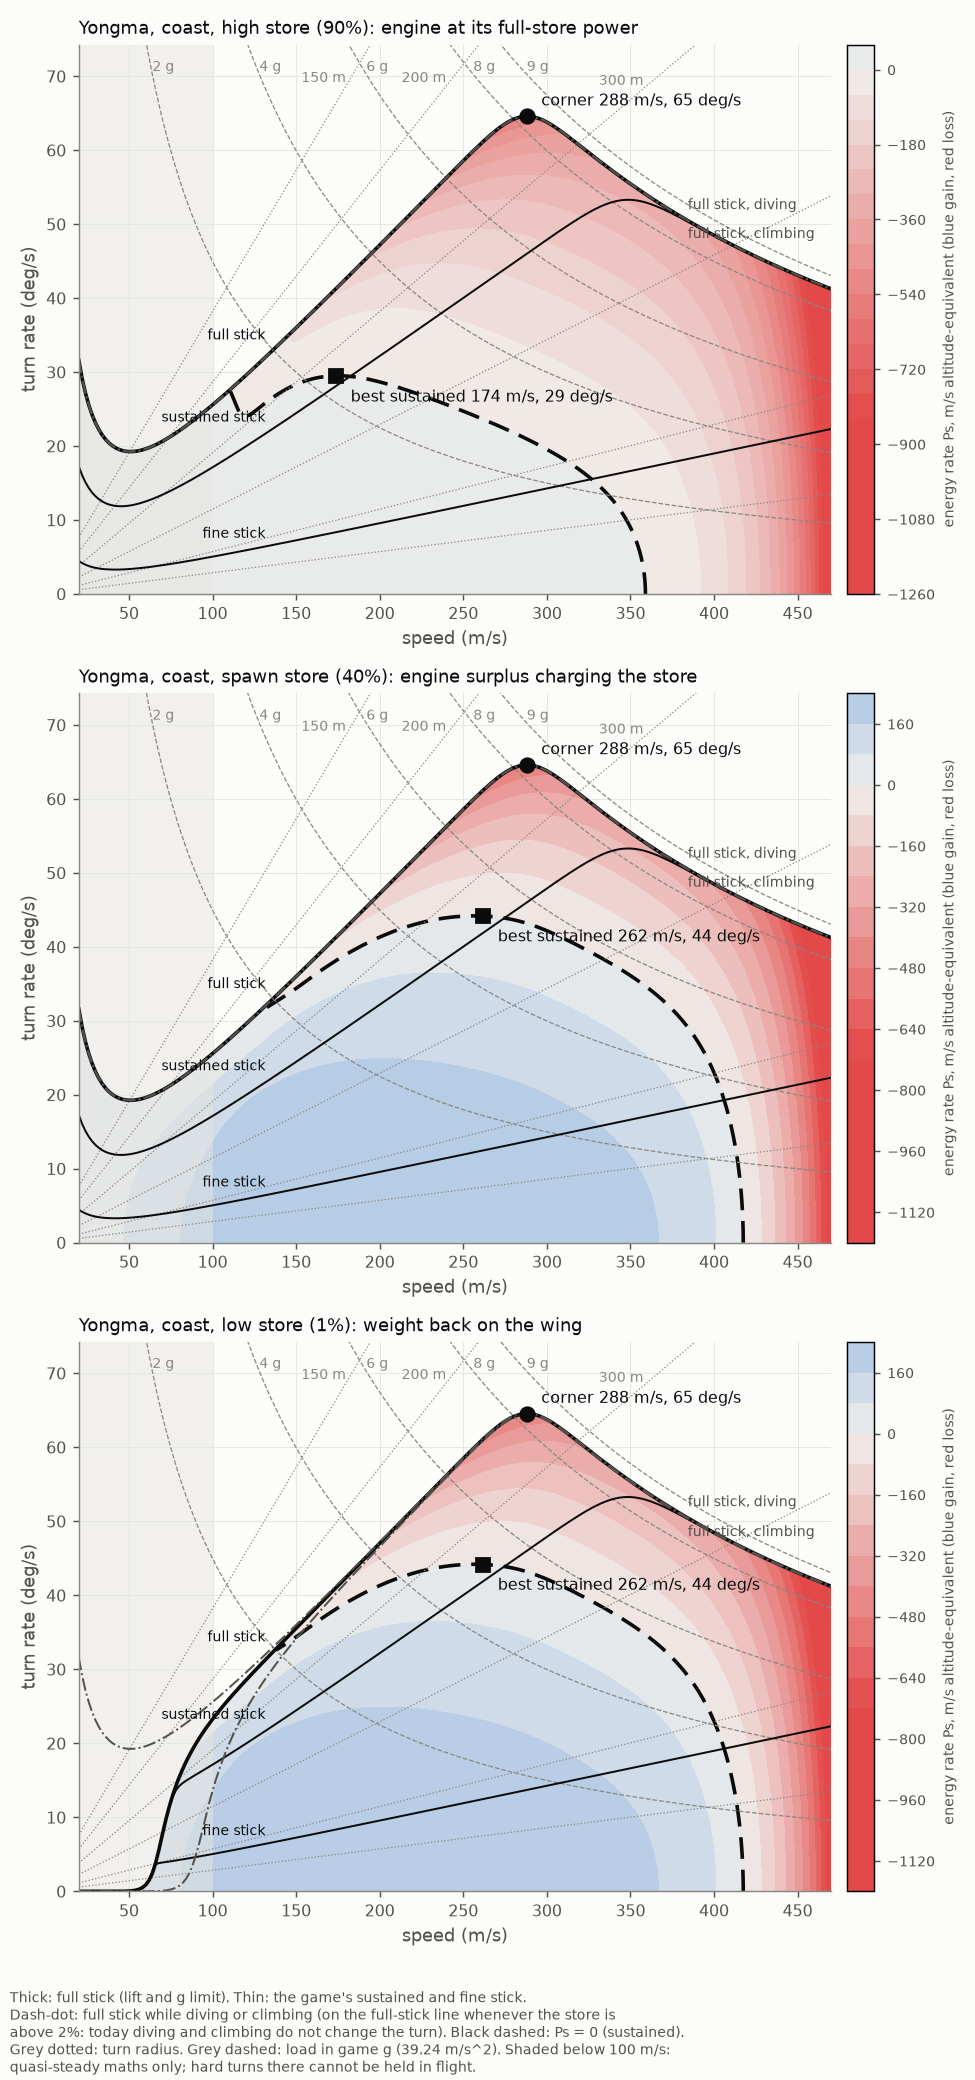
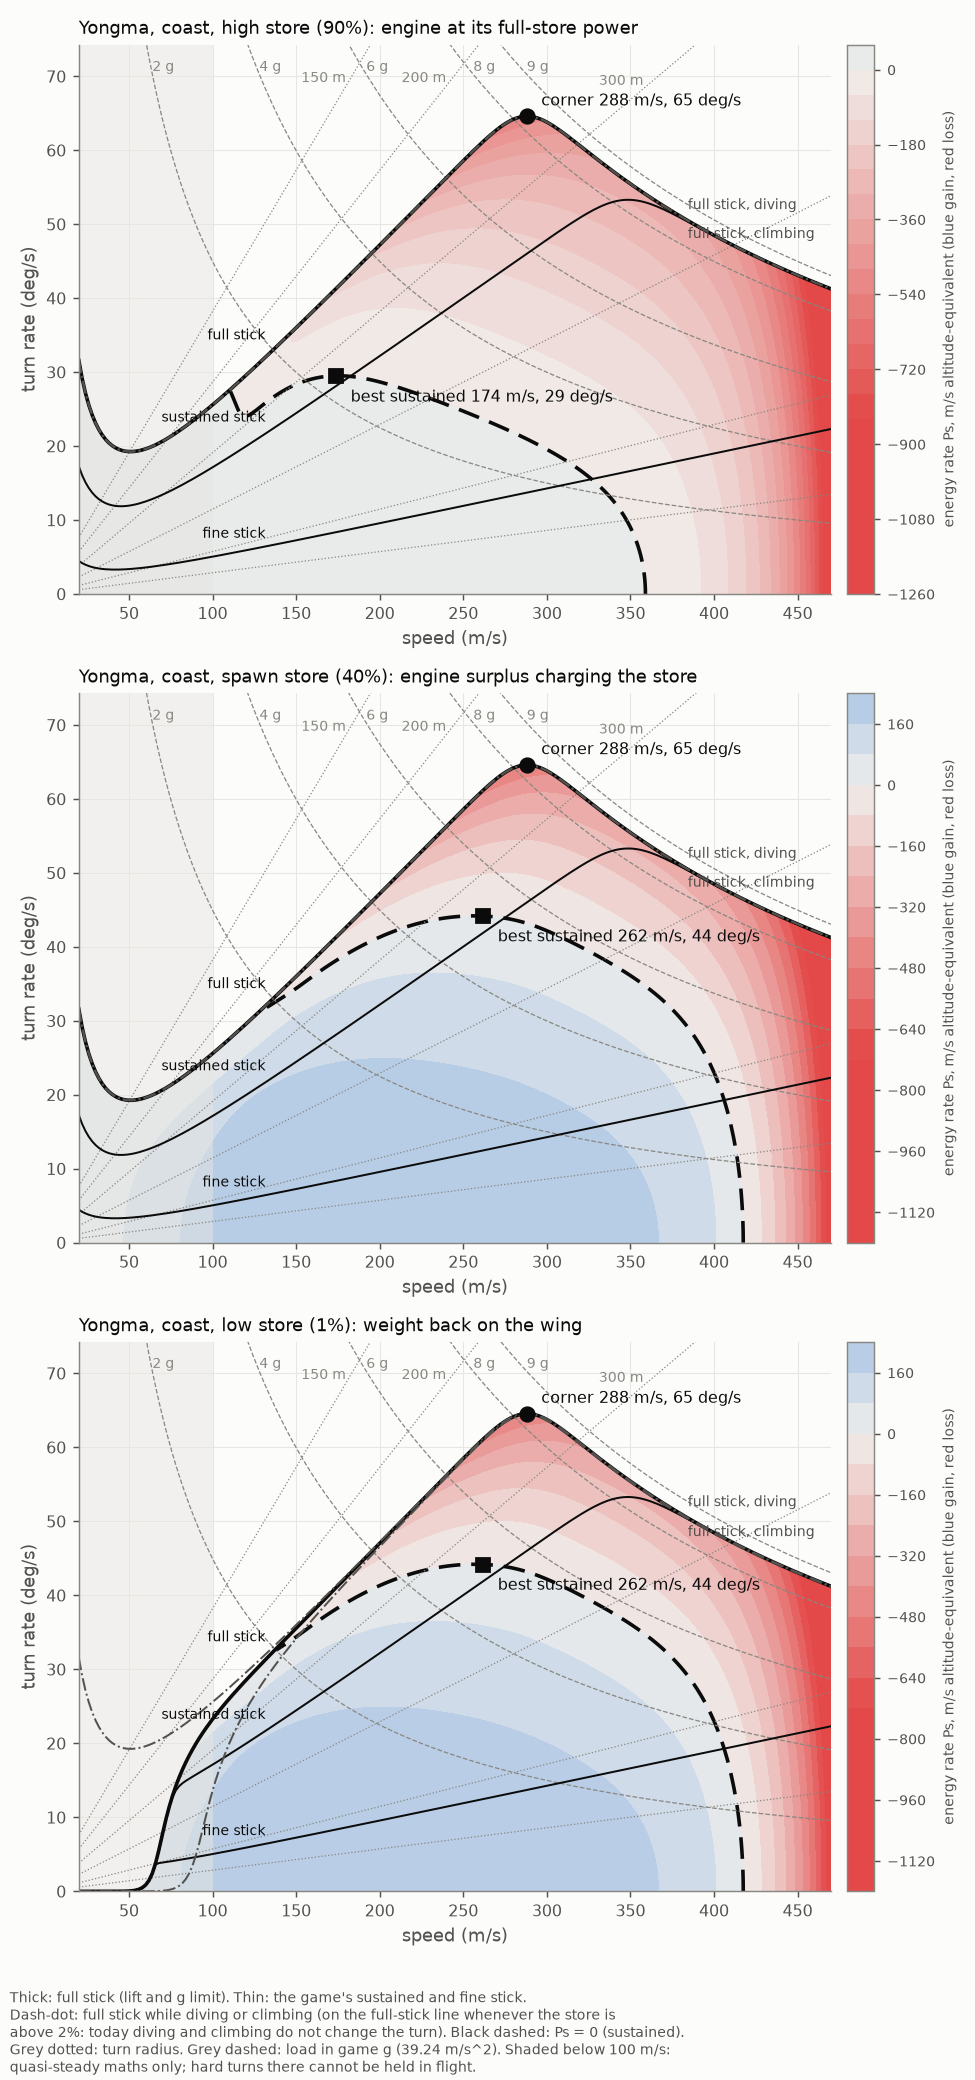
Flight charts: THEME=dark renders the dark-mode palette (validated); core charts in dark

diff --git a/docs/rewrite/sections/turns/doghouse.py b/docs/rewrite/sections/turns/doghouse.py
@@ -31,7 +31,7 @@ import torch  # noqa: E402
 from matplotlib.colors import LinearSegmentedColormap, TwoSlopeNorm  # noqa: E402
 
 sys.path.insert(0, os.path.dirname(__file__))
-from sim import CONFIG, MAX_ENERGY, MODEL, SPAWN, SUFFIX  # noqa: E402
+from sim import CONFIG, MAX_ENERGY, MODEL, SPAWN, SUFFIX, THEME  # noqa: E402
 
 from lean.game import card, core  # noqa: E402
 
@@ -42,9 +42,17 @@ G = card.GRAVITY
 NAMES = ("Yongma", "Jujak", "Vizia")
 # Reference palette (dataviz skill, references/palette.md): categorical slots 1-3, diverging
 # blue <-> red through a grey midpoint, chart surface and inks.
-SERIES = ("#2a78d6", "#eb6834", "#1baf7a")
-SURFACE, INK, INK_2, MUTED = "#fcfcfb", "#0b0b0b", "#52514e", "#898781"
-DIVERGING = LinearSegmentedColormap.from_list("ps", ["#e34948", "#f0efec", "#2a78d6"])
+if THEME == "dark":  # the reference palette's dark steps (validated against the dark surface)
+    SERIES = ("#3987e5", "#d95926", "#199e70")
+    SURFACE, INK, INK_2, MUTED, GRID = "#1a1a19", "#f0efec", "#c3c2b7", "#898781", "#2e2e2c"
+    DIVERGING = LinearSegmentedColormap.from_list("ps", ["#e66767", "#383835", "#3987e5"])
+else:
+    SERIES = ("#2a78d6", "#eb6834", "#1baf7a")
+    SURFACE, INK, INK_2, MUTED, GRID = "#fcfcfb", "#0b0b0b", "#52514e", "#898781", "#e7e6e2"
+    DIVERGING = LinearSegmentedColormap.from_list("ps", ["#e34948", "#f0efec", "#2a78d6"])
+matplotlib.rcParams.update({"text.color": INK, "axes.labelcolor": INK_2, "axes.edgecolor": MUTED,
+                            "xtick.color": INK_2, "ytick.color": INK_2, "legend.facecolor": SURFACE,
+                            "legend.edgecolor": GRID, "figure.facecolor": SURFACE, "axes.facecolor": SURFACE})
 SPAWN_PERCENT = 100.0 * SPAWN[0] / MAX_ENERGY[0]
 if MODEL == "core":
     STORES = (("store 97.5%: inside the top edge band", 0.975), (f"spawn store ({SPAWN_PERCENT:.0f}%)", None),
@@ -111,20 +119,20 @@ def style(ax):
     for side in ("left", "bottom"):
         ax.spines[side].set_color(MUTED)
     ax.tick_params(colors=INK_2, labelsize=9)
-    ax.grid(color="#e7e6e2", linewidth=0.6)
+    ax.grid(color=GRID, linewidth=0.6)
     ax.set_axisbelow(True)
 
 
 DOGHOUSE_FOOT = {
     "v2": "Thick: full stick (lift and g limit). Thin: the game's sustained and fine stick.\n"
     "Dash-dot: full stick while diving or climbing (on the full-stick line whenever the store is\n"
-    "above 2%: today diving and climbing do not change the turn). Black dashed: Ps = 0 (sustained).\n"
+    "above 2%: today diving and climbing do not change the turn). " + ("White" if THEME == "dark" else "Black") + " dashed: Ps = 0 (sustained).\n"
     "Grey dotted: turn radius. Grey dashed: load in game g (39.24 m/s^2). Shaded below 100 m/s:\n"
     "quasi-steady maths only; hard turns there cannot be held in flight.",
     "core": "Core model: 1 g of weight always on the wing, the turn gets the rest of the lift and g limit;\n"
     "the engine drives speed only. Thick: full stick. Thin: the game's sustained and fine stick.\n"
     "Dash-dot: full stick while diving or climbing (diving lowers the weight on the wing, climbing\n"
-    "raises it). Black dashed: Ps = 0 (sustained). Grey dotted: turn radius. Grey dashed: load in\n"
+    "raises it). " + ("White" if THEME == "dark" else "Black") + " dashed: Ps = 0 (sustained). Grey dotted: turn radius. Grey dashed: load in\n"
     "game g (39.24 m/s^2). Shaded below 100 m/s: quasi-steady maths only, no best-sustained mark there.\n"
     "Coasting, turn rate and Ps do not depend on the store. Inside an edge band (the outer 5%) dive or climb\n"
     "fades to coast, in the trade and in the wing's load: at 97.5% and 2.5% the band is half faded.\n"
@@ -205,7 +213,7 @@ def doghouse(ship_type: int):
         ax.set_ylim(0, top)
         ax.set_xlabel("speed (m/s)", color=INK_2)
         ax.set_ylabel("turn rate (deg/s)", color=INK_2)
-        ax.axvspan(v[0], 100.0, color="#e7e6e2", alpha=0.5, linewidth=0)
+        ax.axvspan(v[0], 100.0, color=GRID, alpha=0.5, linewidth=0)
         ax.set_title(f"{NAMES[ship_type]}, coast, {label}" + (", core model" if MODEL == "core" else ""),
                      color=INK, fontsize=10, loc="left")
         bar = figure.colorbar(filled, ax=ax, fraction=0.04, pad=0.02)

diff --git a/docs/rewrite/sections/turns/charts.py b/docs/rewrite/sections/turns/charts.py
@@ -26,6 +26,7 @@ import torch  # noqa: E402
 sys.path.insert(0, os.path.dirname(__file__))
 from doghouse import (  # noqa: E402
     DEGREES,
+    GRID,
     INK,
     INK_2,
     MUTED,
@@ -194,7 +195,7 @@ def who_wins():
             va="top",
             fontsize=8.5,
             color=INK,
-            bbox=dict(facecolor=SURFACE, edgecolor="#e7e6e2", boxstyle="round,pad=0.4"),
+            bbox=dict(facecolor=SURFACE, edgecolor=GRID, boxstyle="round,pad=0.4"),
         )
         ax.set_xlim(100.0, V[-1])
         ax.set_ylim(0, max(np.nanmax(full[a]), np.nanmax(full[b])) * 1.45)
@@ -415,7 +416,7 @@ def dive_climb():
         multialignment="left",
         fontsize=8.5,
         color=INK,
-        bbox=dict(facecolor=SURFACE, edgecolor="#e7e6e2", boxstyle="round,pad=0.4"),
+        bbox=dict(facecolor=SURFACE, edgecolor=GRID, boxstyle="round,pad=0.4"),
     )
     axes_labels(ax_time_speed, "time (s)", "speed (m/s)")
     title(ax_time_speed, "(b) Simulated from coast top speed, spawn store (speeds in m/s)" + (", core" if CORE else ""))
@@ -503,7 +504,7 @@ def bleed():
             va="center" if k < 2 else "bottom",
             fontsize=9,
             color=INK,
-            bbox=dict(facecolor=SURFACE, edgecolor="#e7e6e2", boxstyle="round,pad=0.4"),
+            bbox=dict(facecolor=SURFACE, edgecolor=GRID, boxstyle="round,pad=0.4"),
         )
         ax.plot([], [], color=MUTED, linewidth=2.4, label=f"solid: spawn store ({SPAWN_PERCENT:.0f}%)")
         ax.plot([], [], color=MUTED, linewidth=1.4, linestyle=(0, (3, 3)), label=f"light dashes on top: {OTHER_TAG}")

diff --git a/docs/rewrite/sections/turns/sim.py b/docs/rewrite/sections/turns/sim.py
@@ -16,7 +16,8 @@ MODEL = os.environ.get("FLIGHT_MODEL", "v2")
 if MODEL not in ("v2", "core"):
     raise ValueError(f"FLIGHT_MODEL={MODEL!r}: need 'v2' or 'core'")
 CONFIG = core.GameConfig.core() if MODEL == "core" else core.GameConfig()
-SUFFIX = "-core" if MODEL == "core" else ""  # output file names
+THEME = os.environ.get("THEME", "light")  # "dark": the dark-mode palette and surfaces
+SUFFIX = ("-core" if MODEL == "core" else "") + ("-dark" if THEME == "dark" else "")  # output file names
 H = CONFIG.tick_length
 _SIZES = core.ship_constants(CONFIG, torch.arange(3))
 MAX_ENERGY = [float(e) for e in _SIZES["max_energy"]]  # J/kg per ship type, this model's store
